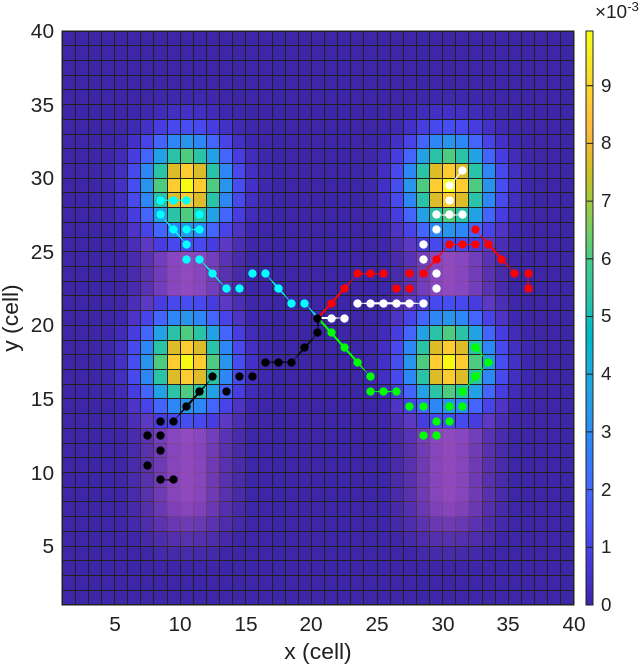
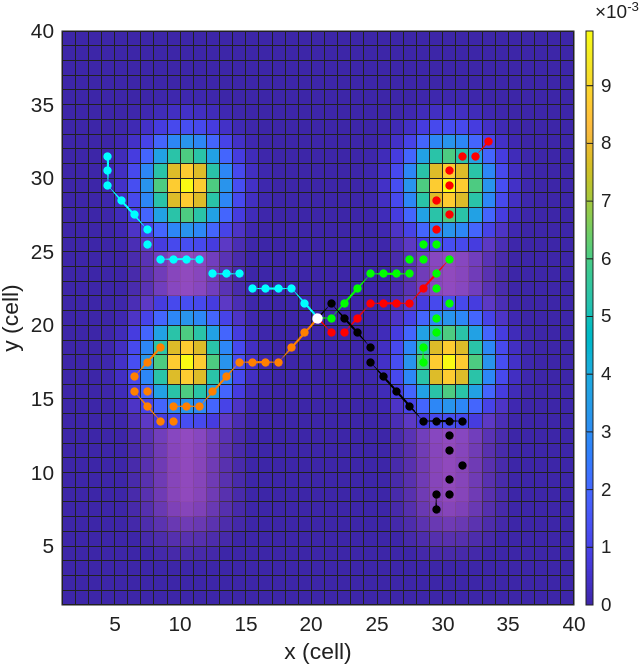
modify MTTD cost function

diff --git a/GetPaths.m b/GetPaths.m
@@ -1,32 +1,46 @@
+% Marginal-gain extraction of the fleet.
+% Return:
+%   paths     - selected fleet (cell array of decoded paths)
+%   costs     - running joint MTTD after each path is added
+%   totalCost - joint MTTD of the final fleet (the reported search time)
+%%%%%%%%%%%%%%%%%%%%%%%%%%%%%%%%%%%%%%%%%%%%%
 function [paths, costs, totalCost] = GetPaths(particle, model, N)
-    particleTable  = struct2table(particle);
-    sortedTable    = sortrows(particleTable, 'BestCost', 'ascend');
-    sortedParticle = table2struct(sortedTable);
-    nPop = numel(sortedParticle);
 
-    MaxNum = model.n + 1; 
+    nPop = numel(particle);
 
-    paths = {};
-    costs = [];
+    % Decode every personal best into a candidate path once.
+    cand = cell(nPop,1);
     for k = 1:nPop
-        if numel(paths) >= N
-            break;
-        end
-        candPath  = PathFromMotion(sortedParticle(k).BestPosition, model);
-        isOverlap = false;
-        for m = 1:numel(paths)
-            if CheckOverlap(candPath, paths{m})
-                isOverlap = true;
-                break;
-            end
-        end
-        if ~isOverlap
-            paths{end+1} = candPath;
-            costs(end+1) = sortedParticle(k).BestCost;
-        end
+        cand{k} = PathFromMotion(particle(k).BestPosition, model);
     end
 
-    nFound     = numel(paths);
-    nMissing   = N - nFound;
-    totalCost  = sum(costs) + nMissing * MaxNum;
+    paths   = {};
+    costs   = [];
+    chosen  = false(nPop,1);
+    curCost = JointCost({}, model);        % empty-fleet baseline = model.n
+
+    for slot = 1:N
+        bestGain = 0;                       % require strictly positive marginal gain
+        bestK    = -1;
+        bestCost = curCost;
+        for k = 1:nPop
+            if chosen(k), continue; end
+            trialCost = JointCost([paths, cand(k)], model);
+            gain      = curCost - trialCost;
+            if gain > bestGain
+                bestGain = gain;
+                bestK    = k;
+                bestCost = trialCost;
+            end
+        end
+        if bestK < 0                        % no remaining candidate improves the fleet
+            break;
+        end
+        paths{end+1} = cand{bestK};
+        costs(end+1) = bestCost;
+        chosen(bestK) = true;
+        curCost = bestCost;
+    end
+
+    totalCost = curCost;                    % joint MTTD of the selected fleet
 end

diff --git a/JointCost.m b/JointCost.m
@@ -1,0 +1,52 @@
+% Joint mean time to detection (MTTD) of a SET of paths on one shared belief.
+% Implements the N-sensor product of Eqs. (2)/(5): at each step every UAV in
+% the set observes the shared belief simultaneously, then the belief is
+% predicted (target motion) and renormalised once. Reduces exactly to
+% MyCost.costT when the set contains a single path.
+%
+% Return:
+%   costT - joint MTTD = sum_t R_t   (fleet search time, in time steps)
+%   costP - joint cumulative probability of detection = 1 - R_T
+%%%%%%%%%%%%%%%%%%%%%%%%%%%%%%%%%%%%%%%%%%%%%
+function [costT, costP] = JointCost(paths, model)
+
+Pmap        = model.Pmap;
+n           = model.n;
+targetMoves = model.targetMoves;
+move        = DirToMove(model.targetDir);
+
+if isempty(paths)                 % empty fleet never detects: R_t = 1 for all t
+    costT = n; costP = 0; return;
+end
+
+pNodetectionAll = 1;              % R_t : probability of no detection up to step t
+MTTD = 0;
+for i = 1:n
+    % --- Target motion: shift the SHARED belief once per step ---
+    if targetMoves ~= 0
+        moveStep = n / targetMoves;
+        if mod(i, moveStep) == 0
+            tmp  = noncircshift(Pmap, move);
+            Pmap = tmp ./ sum(tmp(:));      % scale to 1
+        end
+    end
+
+    % --- All UAVs observe: zero every occupied cell (product of Eq.(2)) ---
+    pSensorNoDetection = ones(size(Pmap));
+    for h = 1:numel(paths)
+        p  = paths{h};
+        xi = p(i,1) + model.xmax + 1;       % shift to the range [1, MAPSIZE]
+        yi = p(i,2) + model.ymax + 1;
+        pSensorNoDetection(yi, xi) = 0;      % binary perfect sensor at UAV cell
+    end
+
+    newMap          = pSensorNoDetection .* Pmap;   % update shared belief
+    scaleFactor     = sum(newMap(:));               % joint P(no detection at step i)
+    pNodetectionAll = pNodetectionAll * scaleFactor;
+    MTTD            = MTTD + pNodetectionAll;        % accumulate joint MTTD
+    Pmap            = newMap ./ scaleFactor;         % renormalise shared belief
+end
+
+costT = MTTD;
+costP = 1 - pNodetectionAll;
+end

diff --git a/CreateModel.m b/CreateModel.m
@@ -2,7 +2,7 @@
 % Create the searching map with initial belief
 %
 
-function model=CreateModel5()
+function model=CreateModel()
     
     % Create grid map
     MAP_SIZE = 40;
@@ -36,18 +36,6 @@ function model=CreateModel5()
 
     Pmap = F1+F2+F3+F4; % Standardise the map with two target info sources
     Pmap = Pmap/sum(Pmap(:));
- %   pcolor(X,Y,Pmap);
-   
- %{
-    %Plot probabilistic map
-    figure();
-    surf(x,y,Pmap);
-    caxis([min(Pmap(:))-.5*range(Pmap(:)),max(Pmap(:))]); % Set colour range
-    axis([0 MAP_SIZE 0 MAP_SIZE 0 max(Pmap(:))]);
-    xlabel('x'); ylabel('y'); zlabel('Probability Density');
-   %} 
-   
-    
     % Map limits
     xmin= -floor(MAP_SIZE/2);
     xmax= floor(MAP_SIZE/2);

diff --git a/EMPSO.m b/EMPSO.m
@@ -5,7 +5,7 @@ close all;
 tic
 %% Problem Definition
 
-model = CreateModel6(); % Create search map and parameters
+model = CreateModel(); % Create search map and parameters
 PlotModel(model);
 
 CostFunction=@(x) MyCost(x,model);    % Cost Function
@@ -160,7 +160,7 @@ for it=1:MaxIt
 
     [paths, costs, totalCost] = GetPaths(particle, model,N);
 
-    BestCost(it)      = costs(1);   
+    if isempty(costs), BestCost(it) = model.n; else, BestCost(it) = costs(1); end  
     TotalBestCost(it) = totalCost;
     if totalCost < finalBestCost
         finalBestCost = totalCost;
